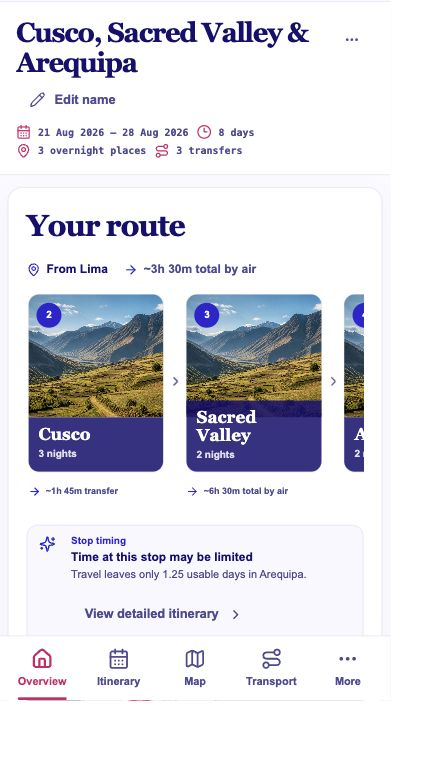
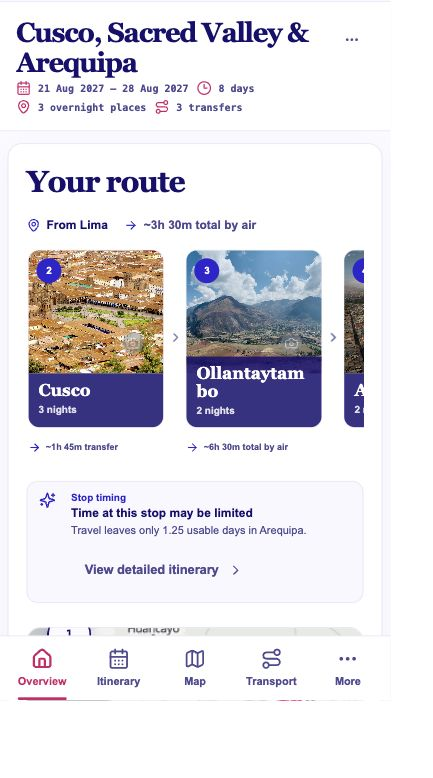
Refresh product tour against staging with verified current visuals

diff --git a/components/easyt/storybook/tour-trip.fixture.ts b/components/easyt/storybook/tour-trip.fixture.ts
@@ -1,9 +1,14 @@
 import { defaultTripIntent, type EasyTTrip, type PlanItem } from "@/lib/easyt/trip";
 
-export const TOUR_TRIP_PROMPT = "Seven nights in Peru for two. Start in Cusco, spend three nights there, two in the Sacred Valley and finish with two nights in Arequipa. We like food and culture.";
-export const TOUR_TRIP_ROUTE = "Cusco → Sacred Valley → Arequipa";
+export const TOUR_TRIP_PROMPT = "Seven nights in Peru for two. Start in Cusco, spend three nights there, two in Ollantaytambo in the Sacred Valley and finish with two nights in Arequipa. We like food and culture.";
+export const TOUR_TRIP_ROUTE = "Cusco → Ollantaytambo → Arequipa";
 
-const image = "/journey/peru-sacred-valley-route.jpg";
+// Location-specific photographs with verified provider licences; see the public manifest.
+const tourPhotos: Record<string, { image: string; sourceUrl: string }> = {
+  cusco: { image: "/journey/product-shots/tour/source/cusco.jpg", sourceUrl: "https://unsplash.com/photos/a-view-of-a-city-from-a-high-point-of-view-g9U5KGu_m3Q" },
+  "ollantaytambo": { image: "/journey/product-shots/tour/source/sacred-valley.jpg", sourceUrl: "https://unsplash.com/photos/rocky-mountains-hQljmSHzn4E" },
+  arequipa: { image: "/journey/product-shots/tour/source/arequipa.jpg", sourceUrl: "https://unsplash.com/photos/a-panoramic-view-of-a-city-with-a-mountain-in-the-background-hpc4DFyjY40" },
+};
 
 const day = (
   dayNumber: number,
@@ -27,14 +32,13 @@ const day = (
   bookingUrl: null,
   latitude: null,
   longitude: null,
-  image,
-  sourceUrl: null,
+  ...tourPhotos[stopId],
 });
 
 const intent = defaultTripIntent({
   travellers: 2,
   durationDays: 8,
-  stopIds: ["cusco", "sacred-valley", "arequipa"],
+  stopIds: ["cusco", "ollantaytambo", "arequipa"],
 });
 
 export const tourTripFixture: EasyTTrip = {
@@ -43,13 +47,14 @@ export const tourTripFixture: EasyTTrip = {
   ownerId: null,
   title: "Cusco, Sacred Valley & Arequipa",
   status: "draft",
-  startDate: "2026-08-21",
-  endDate: "2026-08-28",
+  startDate: "2027-08-21",
+  endDate: "2027-08-28",
   travellers: 2,
   currency: "GBP",
   brief: {
     origin: "Lima",
     originCountry: "Peru",
+    originCanonicalPlaceId: "lima",
     originCoordinates: [-77.0428, -12.0464],
     mustDo: TOUR_TRIP_PROMPT,
     pace: "slow",
@@ -62,16 +67,16 @@ export const tourTripFixture: EasyTTrip = {
       { id: "tour-idea-qorikancha", stopId: "cusco", placeId: "qorikancha", title: "Qorikancha", category: "activity", coordinates: [-71.981, -13.519], source: "destination-highlight", reasons: ["destination-significance"], dayId: "tour-day-2", dayPart: "morning" },
       { id: "tour-idea-market", stopId: "cusco", placeId: "san-pedro-market", title: "San Pedro Market", category: "restaurant", coordinates: [-71.9821, -13.5207], source: "personalised-recommendation", reasons: ["interest-relevance"], dayId: "tour-day-2", dayPart: "evening" },
     ],
-    nightAllocations: { cusco: 3, "sacred-valley": 2, arequipa: 2 },
-    manualNightStopIds: ["cusco", "sacred-valley", "arequipa"],
+    nightAllocations: { cusco: 3, "ollantaytambo": 2, arequipa: 2 },
+    manualNightStopIds: ["cusco", "ollantaytambo", "arequipa"],
     routeAssessment: {
       comfortableDays: 8,
       shortfallDays: 0,
       durations: {},
       route: {
         state: "current-order",
-        currentStopIds: ["cusco", "sacred-valley", "arequipa"],
-        recommendedStopIds: ["cusco", "sacred-valley", "arequipa"],
+        currentStopIds: ["cusco", "ollantaytambo", "arequipa"],
+        recommendedStopIds: ["cusco", "ollantaytambo", "arequipa"],
         currentTransferMinutes: 465,
         recommendedTransferMinutes: 465,
         improvementMinutes: 0,
@@ -81,10 +86,10 @@ export const tourTripFixture: EasyTTrip = {
       },
     },
     bookings: [
-      { id: "tour-stay-cusco", type: "stay", title: "Cusco stay", date: "2026-08-21", confirmation: "CUZ-321", url: null },
-      { id: "tour-stay-valley", type: "stay", title: "Sacred Valley stay", date: "2026-08-24", confirmation: "SV-224", url: null },
-      { id: "tour-stay-arequipa", type: "stay", title: "Arequipa stay", date: "2026-08-26", confirmation: "AQP-226", url: null },
-      { id: "tour-arrival-flight", type: "transport", title: "Lima to Cusco flight", date: "2026-08-21", confirmation: "LIM-CUZ-821", url: null },
+      { id: "tour-stay-cusco", type: "stay", title: "Cusco stay", date: "2027-08-21", confirmation: "CUZ-321", url: null },
+      { id: "tour-stay-valley", type: "stay", title: "Sacred Valley stay", date: "2027-08-24", confirmation: "SV-224", url: null },
+      { id: "tour-stay-arequipa", type: "stay", title: "Arequipa stay", date: "2027-08-26", confirmation: "AQP-226", url: null },
+      { id: "tour-arrival-flight", type: "transport", title: "Lima to Cusco flight", date: "2027-08-21", confirmation: "LIM-CUZ-821", url: null },
     ],
     checklist: [
       { id: "passport", label: "Check passport validity", complete: true },
@@ -95,26 +100,26 @@ export const tourTripFixture: EasyTTrip = {
     intent: { ...intent, preferences: { ...intent.preferences, pace: "relaxed", interests: ["food", "culture"] } },
   },
   stops: [
-    { id: "cusco", order: 0, name: "Cusco", country: "Peru", latitude: -13.532, longitude: -71.967, arrivalDate: "2026-08-21", departureDate: "2026-08-24", nights: 3 },
-    { id: "sacred-valley", order: 1, name: "Sacred Valley", country: "Peru", latitude: -13.333, longitude: -72.083, arrivalDate: "2026-08-24", departureDate: "2026-08-26", nights: 2 },
-    { id: "arequipa", order: 2, name: "Arequipa", country: "Peru", latitude: -16.398, longitude: -71.536, arrivalDate: "2026-08-26", departureDate: "2026-08-28", nights: 2 },
+    { id: "cusco", order: 0, name: "Cusco", country: "Peru", canonicalPlaceId: "cusco", latitude: -13.517, longitude: -71.9785, arrivalDate: "2027-08-21", departureDate: "2027-08-24", nights: 3 },
+    { id: "ollantaytambo", order: 1, name: "Ollantaytambo", country: "Peru", canonicalPlaceId: "ollantaytambo", latitude: -13.2586, longitude: -72.264, arrivalDate: "2027-08-24", departureDate: "2027-08-26", nights: 2 },
+    { id: "arequipa", order: 2, name: "Arequipa", country: "Peru", canonicalPlaceId: "arequipa", latitude: -16.409, longitude: -71.5375, arrivalDate: "2027-08-26", departureDate: "2027-08-28", nights: 2 },
   ],
   legs: [
-    { id: "tour-arrival", fromStopId: "tour-cusco-sacred-valley-arequipa-origin", toStopId: "cusco", fromEndpoint: { kind: "origin", id: "tour-cusco-sacred-valley-arequipa-origin", name: "Lima", country: "Peru", coordinates: [-77.0428, -12.0464] }, toEndpoint: { kind: "stop", id: "cusco", name: "Cusco", country: "Peru", coordinates: [-71.967, -13.532] }, classification: "arrival", mode: "flight", distanceKm: 575, durationMinutes: 90, doorToDoorMinutes: 210, provider: "Saved flight", provenance: "provider", confidence: "high", scheduleNeedsChecking: false, routeMetadata: {} },
-    { id: "tour-cusco-valley", fromStopId: "cusco", toStopId: "sacred-valley", mode: "road", distanceKm: null, durationMinutes: 75, doorToDoorMinutes: 105, provider: "Saved transfer", provenance: "provider", confidence: "high", scheduleNeedsChecking: false, routeMetadata: {} },
-    { id: "tour-valley-arequipa", fromStopId: "sacred-valley", toStopId: "arequipa", mode: "flight", distanceKm: null, durationMinutes: 390, doorToDoorMinutes: 390, provider: "Saved flight", provenance: "provider", confidence: "high", scheduleNeedsChecking: false, routeMetadata: {} },
+    { id: "tour-arrival", fromStopId: "tour-cusco-sacred-valley-arequipa-origin", toStopId: "cusco", fromEndpoint: { kind: "origin", id: "tour-cusco-sacred-valley-arequipa-origin", name: "Lima", country: "Peru", canonicalPlaceId: "lima", coordinates: [-77.0428, -12.0464] }, toEndpoint: { kind: "stop", id: "cusco", name: "Cusco", country: "Peru", canonicalPlaceId: "cusco", coordinates: [-71.9785, -13.517] }, classification: "arrival", mode: "flight", distanceKm: 575, durationMinutes: 90, doorToDoorMinutes: 210, provider: "Saved flight", provenance: "provider", confidence: "high", scheduleNeedsChecking: false, routeMetadata: {} },
+    { id: "tour-cusco-valley", fromEndpoint: {"kind": "stop", "id": "cusco", "name": "Cusco", "country": "Peru", "canonicalPlaceId": "cusco", "coordinates": [-71.9785, -13.517]}, toEndpoint: {"kind": "stop", "id": "ollantaytambo", "name": "Ollantaytambo", "country": "Peru", "canonicalPlaceId": "ollantaytambo", "coordinates": [-72.264, -13.2586]}, fromStopId: "cusco", toStopId: "ollantaytambo", mode: "road", distanceKm: null, durationMinutes: 75, doorToDoorMinutes: 105, provider: "Saved transfer", provenance: "provider", confidence: "high", scheduleNeedsChecking: false, routeMetadata: {} },
+    { id: "tour-valley-arequipa", fromEndpoint: {"kind": "stop", "id": "ollantaytambo", "name": "Ollantaytambo", "country": "Peru", "canonicalPlaceId": "ollantaytambo", "coordinates": [-72.264, -13.2586]}, toEndpoint: {"kind": "stop", "id": "arequipa", "name": "Arequipa", "country": "Peru", "canonicalPlaceId": "arequipa", "coordinates": [-71.5375, -16.409]}, fromStopId: "ollantaytambo", toStopId: "arequipa", mode: "flight", distanceKm: null, durationMinutes: 390, doorToDoorMinutes: 390, provider: "Saved flight", provenance: "provider", confidence: "high", scheduleNeedsChecking: false, routeMetadata: {} },
   ],
   planItems: [
-    day(1, "cusco", "2026-08-21", "Arrive in Cusco", "A protected arrival day leaves time for the flight, check-in and altitude adjustment.", ["Check in and keep dinner close to the stay"], "arrival"),
-    day(2, "cusco", "2026-08-22", "Explore Cusco", "Stay local while adjusting to the altitude.", ["San Blas and the historic centre", "Qorikancha", "Keep the afternoon flexible", "San Pedro Market"]),
-    day(3, "cusco", "2026-08-23", "Explore Cusco", "A second day protects the pace before moving on.", ["Sacsayhuamán", "Choose one museum or market"]),
-    day(4, "sacred-valley", "2026-08-24", "Travel to Sacred Valley", "A short road transfer keeps most of the day usable.", ["Leave after breakfast", "Check in before exploring Pisac"], "transport"),
-    day(5, "sacred-valley", "2026-08-25", "Explore Sacred Valley", "A full day keeps the valley from becoming a transit stop.", ["Pisac market", "Ollantaytambo"]),
-    day(6, "arequipa", "2026-08-26", "Travel to Arequipa", "This is the longest transfer day in the route.", ["Allow a generous airport buffer", "Keep dinner close to the hotel"], "transport"),
-    day(7, "arequipa", "2026-08-27", "Explore Arequipa", "Finish with one coherent day in the historic centre.", ["Santa Catalina Monastery", "Plaza de Armas at dusk"]),
-    day(8, "arequipa", "2026-08-28", "Leave Arequipa", "Keep departure day simple.", ["Check out and travel to the airport"], "transport"),
+    day(1, "cusco", "2027-08-21", "Arrive in Cusco", "A protected arrival day leaves time for the flight, check-in and altitude adjustment.", ["Check in and keep dinner close to the stay"], "arrival"),
+    day(2, "cusco", "2027-08-22", "Explore Cusco", "Stay local while adjusting to the altitude.", ["San Blas and the historic centre", "Qorikancha", "Keep the afternoon flexible", "San Pedro Market"]),
+    day(3, "cusco", "2027-08-23", "Explore Cusco", "A second day protects the pace before moving on.", ["Sacsayhuamán", "Choose one museum or market"]),
+    day(4, "ollantaytambo", "2027-08-24", "Travel to Ollantaytambo", "A short road transfer keeps most of the day usable.", ["Leave after breakfast", "Check in before exploring Pisac"], "transport"),
+    day(5, "ollantaytambo", "2027-08-25", "Explore Sacred Valley", "A full day keeps the valley from becoming a transit stop.", ["Pisac market", "Ollantaytambo"]),
+    day(6, "arequipa", "2027-08-26", "Travel to Arequipa", "This is the longest transfer day in the route.", ["Allow a generous airport buffer", "Keep dinner close to the hotel"], "transport"),
+    day(7, "arequipa", "2027-08-27", "Explore Arequipa", "Finish with one coherent day in the historic centre.", ["Santa Catalina Monastery", "Plaza de Armas at dusk"]),
+    day(8, "arequipa", "2027-08-28", "Leave Arequipa", "Keep departure day simple.", ["Check out and travel to the airport"], "transport"),
   ],
   recommendations: [],
-  createdAt: "2026-08-01T10:00:00.000Z",
-  updatedAt: "2026-08-01T10:00:00.000Z",
+  createdAt: "2027-08-01T10:00:00.000Z",
+  updatedAt: "2027-08-01T10:00:00.000Z",
 };

diff --git a/components/easyt/easyt-product-tour.tsx b/components/easyt/easyt-product-tour.tsx
@@ -14,23 +14,23 @@ export const PRODUCT_TOUR_STATE_EVENT = "easyt-product-tour-state";
 const copy = {
   en: {
     trigger: "Guide", close: "Close product tour", step: "Step", of: "of", back: "Back", next: "Next", finish: "Done", skip: "Skip tour",
-    prompt: "New to Morrovia?", takeTour: "See how planning works", dismissPrompt: "Dismiss tour invitation", example: "Example screens · not a booking",
+    prompt: "New to Morrovia?", takeTour: "See how planning works", dismissPrompt: "Dismiss tour invitation", example: "Example screens · not a booking", credits: "Image credits", creditsLabel: "Image credits (opens in a new tab)",
     steps: [
-      { label: "01 · Start your way", title: "A few stops. Or a few words.", copy: "Choose “Plan with stops” to add destinations, or “Describe my trip” to tell us your idea. Add dates and travellers when you know them.", image: "/journey/product-shots/tour/current/describe-trip.jpg", mobileImage: "/journey/product-shots/tour/current/describe-trip-mobile.jpg", alt: "Current trip starter with Plan with stops and Describe my trip, destination fields, dates and travellers" },
-      { label: "02 · Review your route", title: "Start with a route that makes sense.", copy: "Review the stop order, nights and travel days before you continue. Transfer times are estimates: check schedules before booking.", image: "/journey/product-shots/tour/current/shape-route.jpg", mobileImage: "/journey/product-shots/tour/current/shape-route-mobile.jpg", alt: "Route review showing Cusco, the Sacred Valley and Arequipa with nights and transfers" },
+      { label: "01 · Start your way", title: "A few stops. Or a few words.", copy: "Choose “Plan with stops” to add destinations, or “Describe my trip” to tell us your idea. Add dates and travellers when you know them.", image: "/journey/product-shots/tour/current/describe-trip.jpg", mobileImage: "/journey/product-shots/tour/current/describe-trip-mobile.jpg", alt: "Current trip starter with Plan with stops and Describe my trip and editable destinations" },
+      { label: "02 · Review your route", title: "Start with a route that makes sense.", copy: "Review the stop order, nights and travel days before you continue. Transfer times are estimates: check schedules before booking.", image: "/journey/product-shots/tour/current/shape-route.jpg", mobileImage: "/journey/product-shots/tour/current/shape-route-mobile.jpg", alt: "Route review showing Cusco, Ollantaytambo in the Sacred Valley and Arequipa with nights and transfer estimates" },
       { label: "03 · See the whole trip", title: "Know what needs attention next.", copy: "Overview brings your route, next steps and practical prep together. See what still needs a decision as your plan takes shape.", image: "/journey/product-shots/tour/current/trip-workspace.jpg", mobileImage: "/journey/product-shots/tour/current/trip-workspace-mobile.jpg", alt: "Overview for the Peru trip showing the route, travel estimates and timing warning" },
-      { label: "04 · Explore the Map", title: "See how the whole trip connects.", copy: "Explore your stops on the Map, find places nearby and save ideas for your trip. Keep the whole route in view as you refine it.", image: "/journey/product-shots/tour/current/map-workspace.jpg", mobileImage: "/journey/product-shots/tour/current/map-workspace-mobile.jpg", alt: "Current Map workspace with Cusco selected and planned places nearby" },
+      { label: "04 · Explore the Map", title: "See how the whole trip connects.", copy: "Explore your stops on the Map, find places nearby and save ideas for your trip. Keep the whole route in view as you refine it.", image: "/journey/product-shots/tour/current/map-workspace.jpg", mobileImage: "/journey/product-shots/tour/current/map-workspace-mobile.jpg", alt: "Current Map workspace showing Lima, Cusco, Ollantaytambo and Arequipa connected as one Peru route" },
       { label: "05 · Shape each day", title: "Make the itinerary yours.", copy: "Add places and activities to your days, move them when plans change, and keep travel in context. Partner links open on the provider’s site when you’re ready to book.", image: "/journey/product-shots/tour/current/itinerary-workspace.jpg", mobileImage: "/journey/product-shots/tour/current/itinerary-workspace-mobile.jpg", alt: "Populated Cusco day with activities, day parts and planning actions" },
     ],
   },
   es: {
     trigger: "Guía", close: "Cerrar recorrido del producto", step: "Paso", of: "de", back: "Atrás", next: "Siguiente", finish: "Listo", skip: "Omitir recorrido",
-    prompt: "¿Primera vez en Morrovia?", takeTour: "Descubre cómo planificar", dismissPrompt: "Descartar invitación al recorrido", example: "Ejemplos en inglés · no son reservas",
+    prompt: "¿Primera vez en Morrovia?", takeTour: "Descubre cómo planificar", dismissPrompt: "Descartar invitación al recorrido", example: "Ejemplos en inglés · no son reservas", credits: "Créditos de imágenes", creditsLabel: "Créditos de imágenes (se abre en otra pestaña)",
     steps: [
-      { label: "01 · Empieza a tu manera", title: "Unas paradas. O unas palabras.", copy: "Elige «Planificar con paradas» para añadir destinos o «Describir mi viaje» para contar tu idea. Añade fechas y viajeros cuando los sepas.", image: "/journey/product-shots/tour/current/describe-trip.jpg", mobileImage: "/journey/product-shots/tour/current/describe-trip-mobile.jpg", alt: "Pantalla de inicio en inglés con dos formas de planificar, destinos, fechas y viajeros" },
-      { label: "02 · Revisa tu ruta", title: "Empieza con una ruta que tenga sentido.", copy: "Revisa el orden de las paradas, las noches y los días de traslado. Los tiempos son estimados: comprueba los horarios antes de reservar.", image: "/journey/product-shots/tour/current/shape-route.jpg", mobileImage: "/journey/product-shots/tour/current/shape-route-mobile.jpg", alt: "Ruta por Cusco, el Valle Sagrado y Arequipa con noches y traslados" },
+      { label: "01 · Empieza a tu manera", title: "Unas paradas. O unas palabras.", copy: "Elige «Planificar con paradas» para añadir destinos o «Describir mi viaje» para contar tu idea. Añade fechas y viajeros cuando los sepas.", image: "/journey/product-shots/tour/current/describe-trip.jpg", mobileImage: "/journey/product-shots/tour/current/describe-trip-mobile.jpg", alt: "Pantalla de inicio en inglés con dos formas de planificar y destinos editables" },
+      { label: "02 · Revisa tu ruta", title: "Empieza con una ruta que tenga sentido.", copy: "Revisa el orden de las paradas, las noches y los días de traslado. Los tiempos son estimados: comprueba los horarios antes de reservar.", image: "/journey/product-shots/tour/current/shape-route.jpg", mobileImage: "/journey/product-shots/tour/current/shape-route-mobile.jpg", alt: "Ruta por Cusco, Ollantaytambo en el Valle Sagrado y Arequipa con noches y traslados" },
       { label: "03 · Ve todo el viaje", title: "Ten claro qué necesita atención.", copy: "Resumen reúne tu ruta, los próximos pasos y los preparativos. Ve qué decisiones quedan mientras tu plan toma forma.", image: "/journey/product-shots/tour/current/trip-workspace.jpg", mobileImage: "/journey/product-shots/tour/current/trip-workspace-mobile.jpg", alt: "Resumen en inglés del viaje por Perú con ruta, tiempos estimados y aviso sobre el tiempo disponible" },
-      { label: "04 · Explora el Mapa", title: "Ve cómo se conecta todo el viaje.", copy: "Explora las paradas en el Mapa, encuentra lugares cercanos y guarda ideas para tu viaje. Mantén toda la ruta a la vista mientras la ajustas.", image: "/journey/product-shots/tour/current/map-workspace.jpg", mobileImage: "/journey/product-shots/tour/current/map-workspace-mobile.jpg", alt: "Mapa actual en inglés con Cusco seleccionado y lugares planificados cercanos" },
+      { label: "04 · Explora el Mapa", title: "Ve cómo se conecta todo el viaje.", copy: "Explora las paradas en el Mapa, encuentra lugares cercanos y guarda ideas para tu viaje. Mantén toda la ruta a la vista mientras la ajustas.", image: "/journey/product-shots/tour/current/map-workspace.jpg", mobileImage: "/journey/product-shots/tour/current/map-workspace-mobile.jpg", alt: "Mapa actual en inglés con la ruta por Lima, Cusco, Ollantaytambo y Arequipa" },
       { label: "05 · Organiza cada día", title: "Haz tuyo el itinerario.", copy: "Añade lugares y actividades a tus días, muévelos si cambian tus planes y ten presentes los traslados. Los enlaces de colaboradores abren su web para reservar.", image: "/journey/product-shots/tour/current/itinerary-workspace.jpg", mobileImage: "/journey/product-shots/tour/current/itinerary-workspace-mobile.jpg", alt: "Día completo en Cusco con actividades, momentos del día y acciones de planificación" },
     ],
   },
@@ -133,7 +133,7 @@ export default function EasyTProductTour({ triggerLabel, listenForOpen = false, 
     {open ? createPortal(<div className={mobileStyles.tour}><div className={styles.overlay} role="presentation" onMouseDown={close}>
       <section ref={dialogRef} className={styles.dialog} role="dialog" aria-modal="true" aria-labelledby="easyt-tour-title" aria-describedby="easyt-tour-description" onMouseDown={(event) => event.stopPropagation()}>
         <button className={styles.close} type="button" onClick={close} aria-label={text.close}><X aria-hidden="true" /></button>
-        <div className={styles.visual}><p className={styles.example}>{text.example}</p><div className={styles.mediaFrame}><div className={styles.screen}><picture><source media="(max-width: 680px)" srcSet={current.mobileImage} /><img src={current.image} alt={current.alt} /></picture></div></div></div>
+        <div className={styles.visual}><p className={styles.example}>{text.example} · <a href="/journey/product-shots/tour/credits.html" target="_blank" rel="noreferrer" aria-label={text.creditsLabel}>{text.credits}</a></p><div className={styles.mediaFrame}><div className={styles.screen}><picture><source media="(max-width: 680px)" srcSet={current.mobileImage} /><img src={current.image} alt={current.alt} /></picture></div></div></div>
         <div className={styles.content}>
           <div className={styles.stepCopy} aria-live="polite" aria-atomic="true">
           <p className={styles.label}>{current.label}</p>

diff --git a/tests/product-tour.test.ts b/tests/product-tour.test.ts
@@ -1,4 +1,5 @@
 import assert from "node:assert/strict";
+import { createHash } from "node:crypto";
 import { readFileSync } from "node:fs";
 import test from "node:test";
 import { PRODUCT_TOUR_COMPLETE_KEY, shouldShowProductTourPrompt } from "../lib/easyt/product-tour.ts";
@@ -6,7 +7,7 @@ import { PRODUCT_TOUR_COMPLETE_KEY, shouldShowProductTourPrompt } from "../lib/e
 const tourSource = readFileSync(new URL("../components/easyt/easyt-product-tour.tsx", import.meta.url), "utf8");
 const tourStyles = readFileSync(new URL("../components/easyt/easyt-product-tour.module.css", import.meta.url), "utf8");
 const captureStory = readFileSync(new URL("../components/easyt/morrovia-trip-capture.stories.tsx", import.meta.url), "utf8");
-const builderStory = readFileSync(new URL("../app/journey/new/trip-builder-review.stories.tsx", import.meta.url), "utf8");
+const builderStory = readFileSync(new URL("../app/journey/new/trip-builder-route-workspace.stories.tsx", import.meta.url), "utf8");
 const overviewStory = readFileSync(new URL("../components/easyt/trip-overview-workspace.stories.tsx", import.meta.url), "utf8");
 const mapStory = readFileSync(new URL("../components/easyt/trip-map-workspace.stories.tsx", import.meta.url), "utf8");
 const itineraryStory = readFileSync(new URL("../components/easyt/trip-itinerary-workspace.stories.tsx", import.meta.url), "utf8");
@@ -64,4 +65,22 @@ test("Tour dialog keyboard and focus behaviour remains in place", () => {
   assert.match(tourSource, /event\.key !== "Tab"/);
   assert.match(tourSource, /lastItem\.focus\(\)/);
   assert.match(tourSource, /returnFocusRef\.current/);
+});
+
+test("Tour captures retain their reviewed asset provenance", () => {
+  const root = new URL("../public/journey/product-shots/tour/", import.meta.url);
+  const photos = JSON.parse(readFileSync(new URL("source/manifest.json", root), "utf8"));
+  const captures = JSON.parse(readFileSync(new URL("current/manifest.json", root), "utf8"));
+  const hash = (url: URL) => createHash("sha256").update(readFileSync(url)).digest("hex");
+  assert.equal(captures.captures.length, 10);
+  for (const photo of photos) {
+    assert.equal(photo.licenseUrl, "https://unsplash.com/license");
+    assert.ok(photo.sourceUrl.startsWith("https://unsplash.com/photos/"));
+    assert.equal(hash(new URL(`source/${photo.key}.jpg`, root)), photo.sha256);
+  }
+  for (const capture of captures.captures) {
+    assert.equal(hash(new URL(`current/${capture.file}`, root)), capture.sha256);
+    for (const key of capture.photographs) assert.ok(photos.some((photo: { key: string }) => photo.key === key));
+  }
+  assert.match(tourSource, /credits\.html/);
 });

diff --git a/public/journey/product-shots/tour/credits.html b/public/journey/product-shots/tour/credits.html
@@ -1,0 +1,1 @@
+<!doctype html><html lang="en"><head><meta charset="utf-8"><meta name="viewport" content="width=device-width,initial-scale=1"><title>Product tour image credits · Morrovia</title><style>body{max-width:760px;margin:48px auto;padding:0 24px;color:#17106f;background:#fbfaff;font:16px/1.6 system-ui}h1{font-family:Georgia,serif}a{color:#3025ce}li{margin:16px 0}</style></head><body><main><h1>Product tour image credits</h1><p>These are current Morrovia product screens using a fictional Peru trip. They do not show a traveller’s private information or live bookings. The images were verified against their original provider pages on 5 November 2026.</p><ul><li><a href="https://unsplash.com/photos/a-view-of-a-city-from-a-high-point-of-view-g9U5KGu_m3Q">Cusco — Azzedine Rouichi</a>. <a href="https://unsplash.com/license">Unsplash License</a>. Resized and cropped within the example product screens.</li><li><a href="https://unsplash.com/photos/rocky-mountains-hQljmSHzn4E">Sacred Valley — Paul Daly</a>. <a href="https://unsplash.com/license">Unsplash License</a>. Resized and cropped within the example product screens.</li><li><a href="https://unsplash.com/photos/a-panoramic-view-of-a-city-with-a-mountain-in-the-background-hpc4DFyjY40">Arequipa — Mayur Arvind</a>. <a href="https://unsplash.com/license">Unsplash License</a>. Resized and cropped within the example product screens.</li></ul><h2>Maps</h2><p>Map rendering: <a href="https://openfreemap.org/">OpenFreeMap</a> and <a href="https://openmaptiles.org/">OpenMapTiles</a>. Map data: <a href="https://www.openstreetmap.org/copyright">© OpenStreetMap contributors</a>. Map attribution is preserved in the captures. Maps and photographs are independent examples, not guarantees of travel availability.</p><h2>Changes and source records</h2><p>Photographs were resized, cropped within Morrovia components and included in desktop or mobile screenshots. <a href="source/manifest.json">Photo source records and file hashes</a>. The inherited, unverified Peru fixture photograph is not used in these refreshed captures.</p></main></body></html>

diff --git a/components/easyt/trip-map-workspace.stories.tsx b/components/easyt/trip-map-workspace.stories.tsx
@@ -486,7 +486,7 @@ const goldenTriangleMapPlanTrip: EasyTTrip = {
 
 function TripMapStory({ storyTrip, presentation = "shell", storyState, activityAction }: { storyTrip: EasyTTrip; presentation?: "shell" | "focused"; storyState?: JourneyMapPlannerWorkspaceProps["storyState"]; activityAction?: ResolvedAffiliateAction | null }) {
   if (presentation === "focused") return <JourneyMapPlannerWorkspace trip={storyTrip} presentation="focused" storyState={storyState} activityAction={activityAction} />;
-  return <TripShell trip={storyTrip} orientationAutoStart={false}><TripMapWorkspace trip={storyTrip} storyState={storyState} activityAction={activityAction} /></TripShell>;
+  return <TripShell trip={storyTrip} cacheTrip={false} orientationAutoStart={false}><TripMapWorkspace trip={storyTrip} storyState={storyState} activityAction={activityAction} /></TripShell>;
 }
 
 const meta = {
@@ -509,6 +509,7 @@ type Story = StoryObj<typeof meta>;
 export const ActivePlanning: Story = {};
 
 export const TourCapture: Story = {
+  parameters: { nextjs: { appDirectory: true, navigation: { pathname: "/journey/tour-cusco-sacred-valley-arequipa/map", segments: ["map"] } } },
   args: { storyTrip: tourTripFixture, storyState: { mapMode: "overview", destinationExpanded: true } },
 };
 

diff --git a/components/easyt/easyt-product-tour.module.css b/components/easyt/easyt-product-tour.module.css
@@ -11,3 +11,5 @@
 .stepCopy{display:grid;gap:16px}.stepCopy>p:not(.label){margin:0;color:var(--morrovia-ink-soft);font:var(--morrovia-type-supporting-body)}
 .progress{margin-right:8px;color:var(--morrovia-muted);font:var(--morrovia-type-metadata)}.dots{align-items:center}
 @media(max-width:680px){.visual{padding-top:48px}.mediaFrame{background:var(--morrovia-paper)}.stepCopy{gap:12px}}
+
+.example a{color:inherit;text-underline-offset:3px}.example a:focus-visible{outline:3px solid var(--morrovia-focus-ring);outline-offset:3px}

diff --git a/components/easyt/trip-overview-workspace.stories.tsx b/components/easyt/trip-overview-workspace.stories.tsx
@@ -262,6 +262,7 @@ export const CompactPhotoCreditCard: Story = {
 };
 
 export const TourCapture: Story = {
+  parameters: { nextjs: { appDirectory: true, navigation: { pathname: "/journey/tour-cusco-sacred-valley-arequipa", segments: [] } } },
   args: {
     trip: tourTripFixture,
     initialPrepActions: prepActions.map((action) => ({ ...action, tripId: tourTripFixture.id })),

diff --git a/components/easyt/trip-itinerary-workspace.stories.tsx b/components/easyt/trip-itinerary-workspace.stories.tsx
@@ -648,6 +648,7 @@ export const SelectedActivityMissingImageMobile390: Story = {
 };
 
 export const TourCapture: Story = {
+  parameters: { nextjs: { appDirectory: true, navigation: { pathname: "/journey/tour-cusco-sacred-valley-arequipa/itinerary", segments: ["itinerary"], query: { day: "2" } } } },
   args: { trip: tourTripFixture, selectedDayNumber: 2 },
 };
 
